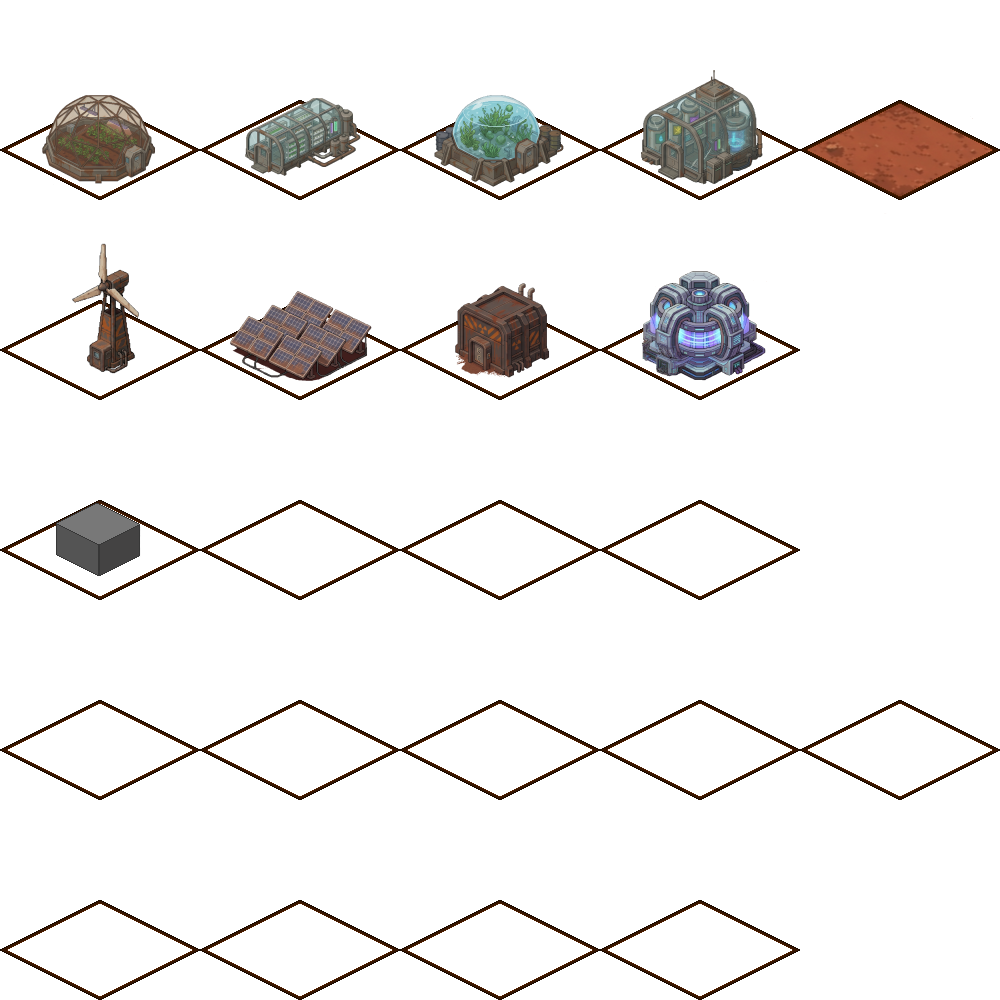
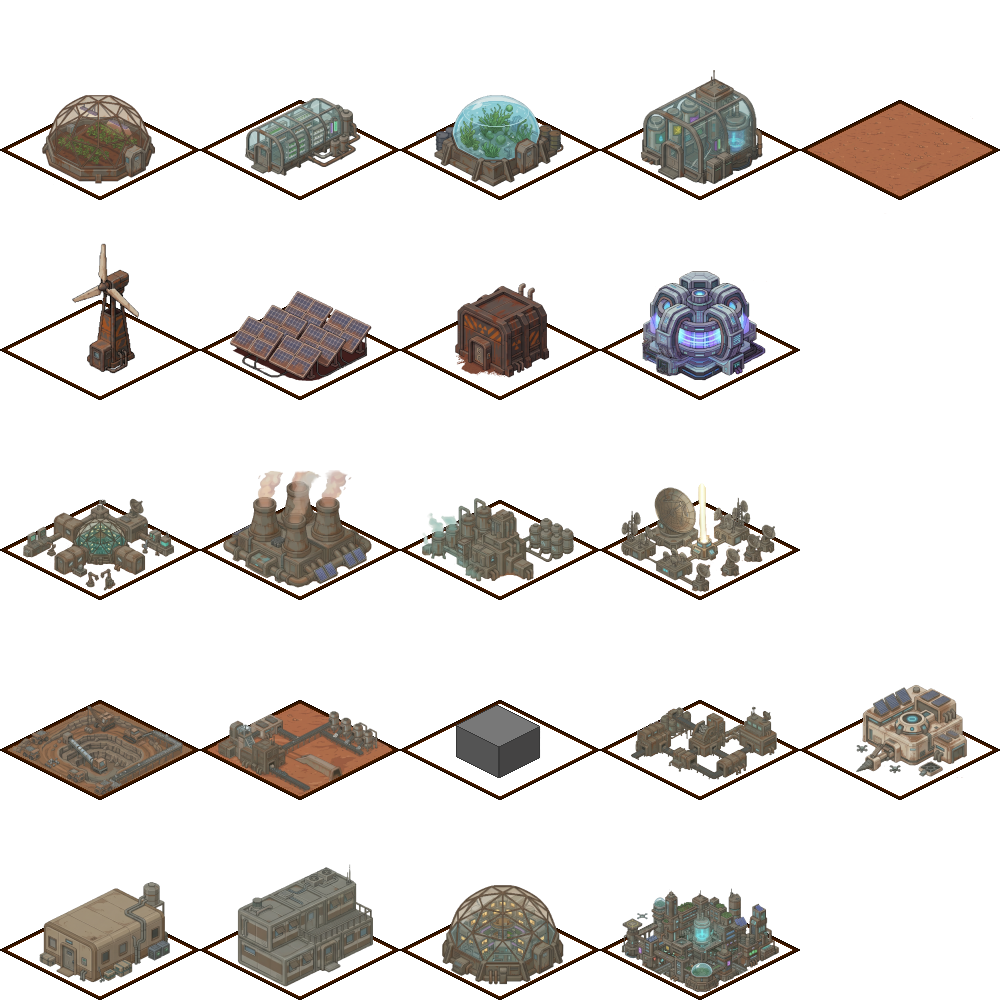
textury wszedzie!
Dodanie grafiki textur budynkow
Tla w menu
Tla do gry
przesuneicie okna w menu

diff --git a/src/graphics.cpp b/src/graphics.cpp
@@ -1181,6 +1181,17 @@ void Graphics::UIBegin(const Colony& kolonia,const map<string, BuildingInfo>& ba
     auto a=ImGui::SFML::UpdateFontTexture();
     siatka.wczytajSiatkaDane(kolonia,bazaDanych);
 
+    //Wczytanie tła
+    if (WczytajGrafike("assets/tlo_menu.png", tlo_menu_tekstura)) { 
+    tlo_menu_sprite.setTexture(tlo_menu_tekstura, true);
+    } else {
+    cout << "Nie udalo sie wczytac tla menu!" << endl;
+    }
+    if (WczytajGrafike("assets/tlo_gra.png", tlo_gra_tekstura)) { 
+    tlo_gra_sprite.setTexture(tlo_gra_tekstura, true);
+    } else {
+    cout << "Nie udalo sie wczytac gra menu!" << endl;
+    }
     prntAll(kolonia,bazaDanych,gra);
 }
 
@@ -1609,6 +1620,8 @@ void Graphics::prntMenuGlowne(Game& gra,const Colony &kolonia) {
     ImGui::SFML::Update(window, deltaClock.restart());
     
     ImVec2 center = ImGui::GetMainViewport()->GetCenter();
+    center.x-=425;
+    center.y+=100;
     ImGui::SetNextWindowPos(center, ImGuiCond_Appearing, ImVec2(0.5f, 0.5f));
     
     float w = 450;
@@ -1621,19 +1634,19 @@ void Graphics::prntMenuGlowne(Game& gra,const Colony &kolonia) {
         ImGui::PushFont(fontMENU);
     }
     
-    ImGui::Dummy(ImVec2(0.0f, 20.0f));
-    float text_width = ImGui::CalcTextSize("COLONY ++").x;
-    ImGui::SetCursorPosX((w - text_width) * 0.5f); 
-    ImGui::TextColored(ImVec4(1.0f, 0.8f, 0.0f, 1.0f),"COLONY ++");
+    // ImGui::Dummy(ImVec2(0.0f, 20.0f));
+    // float text_width = ImGui::CalcTextSize("COLONY ++").x;
+    // ImGui::SetCursorPosX((w - text_width) * 0.5f); 
+    // ImGui::TextColored(ImVec4(1.0f, 0.8f, 0.0f, 1.0f),"COLONY ++");
     
-    ImGui::Dummy(ImVec2(0.0f, 15.0f));
+    // ImGui::Dummy(ImVec2(0.0f, 15.0f));
     ImGui::Separator();
 
     float btn_w = 380;
     float btn_h = 80;
     float btn_x = (w - btn_w) * 0.5f;
 
-    ImGui::SetCursorPos(ImVec2(btn_x, 140));
+    ImGui::SetCursorPos(ImVec2(btn_x, 40));
     if (ImGui::Button("Kontynuuj GRĘ", ImVec2(btn_w, btn_h))) {
         gra.load(gra.getOstatniZapis());
         siatka.wczytajBudynki(kolonia);
@@ -1641,18 +1654,18 @@ void Graphics::prntMenuGlowne(Game& gra,const Colony &kolonia) {
         czyGra=true;
     }
 
-    ImGui::SetCursorPos(ImVec2(btn_x, 240));
+    ImGui::SetCursorPos(ImVec2(btn_x, 140));
     if (ImGui::Button("NOWA GRA", ImVec2(btn_w, btn_h))) {
         ekran =TypEkranu::GAME;
         czyGra=true;
     }
 
-    ImGui::SetCursorPos(ImVec2(btn_x, 340));
+    ImGui::SetCursorPos(ImVec2(btn_x, 240));
     if (ImGui::Button("USTAWIENIA", ImVec2(btn_w, btn_h))) {
         ekran =TypEkranu::SETTINGS; 
     }
 
-    ImGui::SetCursorPos(ImVec2(btn_x, 440));
+    ImGui::SetCursorPos(ImVec2(btn_x, 340));
     if (ImGui::Button("CREDITS", ImVec2(btn_w, btn_h))) {
         ekran =TypEkranu::CREDITS; 
     }
@@ -1851,6 +1864,9 @@ void Graphics::prntAll(const Colony& kolonia,const map<string, BuildingInfo>& ba
         }
 
         window.clear();
+        
+        if(ekran==TypEkranu::MAIN_MENU){ window.draw(tlo_menu_sprite);}
+        if(ekran==TypEkranu::GAME){ window.draw(tlo_gra_sprite);}
         //rysowanie elementow (tla)
         // window.draw(siatka);
         // window.draw(menu);

diff --git a/src/graphics.h b/src/graphics.h
@@ -25,6 +25,12 @@ class Graphics{
         unsigned int szer;
         unsigned int wys;
 
+        sf::Texture tlo_menu_tekstura;
+        sf::Sprite tlo_menu_sprite{tlo_menu_tekstura};
+
+        sf::Texture tlo_gra_tekstura;
+        sf::Sprite tlo_gra_sprite{tlo_gra_tekstura};
+
         //Siatka budynków
         BuildingsGrid siatka;
         TypEkranu ekran;